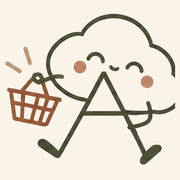
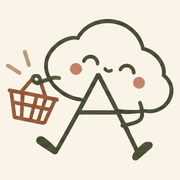
Fix mascot crop, zero-pad dates, add shop opening hours
- Re-cut the cloud mascot by connected strokes so its right side is intact
- Format dates as dd.MM. / dd.MM.yyyy
- Week view shows only open days (Mon–Fri default until settings are wired)
- Spec: open days and closing time in settings, week ends after last open day
- Spec: alerts for missing sales, unconfirmed payout and missing Zásilkovna
- Additive migration adding settings.open_days and settings.closing_time

Changed region(s): [[0.0278, 0.0556, 0.9722, 0.9167], [0.1111, 0.25, 0.1944, 0.3889], [0.0278, 0.3333, 0.1389, 0.4167]]

diff --git a/src/utils/weekUtils.ts b/src/utils/weekUtils.ts
@@ -3,6 +3,7 @@ import {
   addMonths,
   addWeeks,
   format,
+  getISODay,
   getISOWeek,
   getISOWeekYear,
   isValid,
@@ -50,16 +51,25 @@ export const getWeekDays = (monday: Date) => Array.from({ length: 7 }, (_, i) =>
 
 export const getWeekMonthId = (monday: Date) => toMonthId(addDays(monday, 3))
 
-/** e.g. `10.–16. 11. 2026` or `27. 10. – 2. 11. 2026` */
-export const formatWeekRange = (monday: Date) => {
-  const sunday = addDays(monday, 6)
-  if (monday.getMonth() === sunday.getMonth()) {
-    return `${format(monday, 'd.')}–${format(sunday, 'd. M. yyyy')}`
+/** ISO weekdays (1 = Monday … 7 = Sunday) the shop is open. Mirrors the DB default of settings.open_days. */
+export const DEFAULT_OPEN_DAYS = [1, 2, 3, 4, 5]
+
+/** Days of the week the shop is open, in order. */
+export const getOpenWeekDays = (monday: Date, openDays: number[] = DEFAULT_OPEN_DAYS) =>
+  getWeekDays(monday).filter(day => openDays.includes(getISODay(day)))
+
+/**
+ * Range of the open days of the week, e.g. `02.11.–06.11.2026` or `28.12.2026 – 01.01.2027`.
+ * Falls back to Monday–Sunday when no day is open.
+ */
+export const formatWeekRange = (monday: Date, openDays: number[] = DEFAULT_OPEN_DAYS) => {
+  const days = getOpenWeekDays(monday, openDays)
+  const first = days[0] ?? monday
+  const last = days[days.length - 1] ?? addDays(monday, 6)
+  if (first.getFullYear() === last.getFullYear()) {
+    return `${format(first, 'dd.MM.')}–${format(last, 'dd.MM.yyyy')}`
   }
-  if (monday.getFullYear() === sunday.getFullYear()) {
-    return `${format(monday, 'd. M.')} – ${format(sunday, 'd. M. yyyy')}`
-  }
-  return `${format(monday, 'd. M. yyyy')} – ${format(sunday, 'd. M. yyyy')}`
+  return `${format(first, 'dd.MM.yyyy')} – ${format(last, 'dd.MM.yyyy')}`
 }
 
 // Month
@@ -98,5 +108,5 @@ export const getMonthWeekStarts = (firstDay: Date) => {
   return mondays
 }
 
-/** e.g. `po 10. 11.` */
-export const formatDayShort = (date: Date) => format(date, 'EEEEEE d. M.', { locale: cs })
+/** e.g. `po 02.11.` */
+export const formatDayShort = (date: Date) => format(date, 'EEEEEE dd.MM.', { locale: cs })

diff --git a/src/pages/Week/WeekDetail/comps/WeekDays/WeekDays.tsx b/src/pages/Week/WeekDetail/comps/WeekDays/WeekDays.tsx
@@ -1,16 +1,18 @@
 import { cn } from '@/lib/utils'
-import { formatDayShort, getWeekDays } from '@/utils/weekUtils'
+import { DEFAULT_OPEN_DAYS, formatDayShort, getOpenWeekDays } from '@/utils/weekUtils'
 import { isToday } from 'date-fns'
 
 type Props = {
   monday: Date
+  /** ISO weekdays the shop is open; will come from settings.open_days. */
+  openDays?: number[]
 }
 
-const WeekDays = ({ monday }: Props) => (
+const WeekDays = ({ monday, openDays = DEFAULT_OPEN_DAYS }: Props) => (
   <section className='rounded-2xl border border-border bg-card p-5 shadow-sm shadow-olive/5'>
-    <h2 className='mb-3 font-chalk text-2xl leading-none text-olive'>Dny v týdnu</h2>
+    <h2 className='mb-3 font-chalk text-2xl leading-none text-olive'>Otevřeno tento týden</h2>
     <ul className='divide-y divide-border/70'>
-      {getWeekDays(monday).map(day => (
+      {getOpenWeekDays(monday, openDays).map(day => (
         <li
           className={cn(
             'flex items-center justify-between gap-3 py-2.5 text-sm',

diff --git a/docs/DESIGN.md b/docs/DESIGN.md
@@ -88,6 +88,7 @@ a štruktúra kódu.
 - **Písma**: _Caveat Brush_ (krieda / ručne písané) na nadpisy a tabule, _Nunito_ (zaoblené,
   čitateľné) na všetko ostatné a na čísla.
 - **Shadcn** komponenty ostávajú skoro defaultné, vzhľad dávajú tokeny, zaoblenie a farby.
+- **Dátumy** vždy s nulami: `06.11.`, s rokom `06.11.2026` (`dd.MM.` / `dd.MM.yyyy`).
 - **Tón textov**: tykanie, krátko, ľudsky („Zatím v klidu“, „Mrkneme, jak se obchodu daří?“).
 - **Layout**: hlavička s logom a „pilulkovou“ navigáciou na desktope (bez sidebaru), plávajúca
   spodná lišta na mobile.
@@ -96,16 +97,19 @@ a štruktúra kódu.
 
 ## Pojmy
 
-| Pojem (UI, cs)      | Význam                                                                                                                                                                                                                               |
-| ------------------- | ------------------------------------------------------------------------------------------------------------------------------------------------------------------------------------------------------------------------------------ |
-| **Týden**           | Pondelok–Nedeľa (ISO, `2026-W46`). Mesiacu patrí podľa štvrtka.                                                                                                                                                                      |
-| **Tržba**           | Peniaze z predaja za deň (`0` = zavřeno).                                                                                                                                                                                            |
-| **Výdaj**           | Čokoľvek zaplatené z peňazí obchodu (tovar, drobnosti…). Fixné náklady sa sem nezadávajú.                                                                                                                                            |
-| **Přebytek týdne**  | `tržby − výdaje` za týždeň. Záporný = ztráta.                                                                                                                                                                                        |
-| **Zásilkovna**      | Mesačná faktúra za výdajné miesto. Príjem mimo pokladne za **mesiac**, ide do obálky na fixní. Technicky „jiný příjem“ (`other_incomes.kind = 'zasilkovna'`), aby sa dali neskôr pridať ďalšie druhy; v UI je zatiaľ iba Zásilkovna. |
-| **Fixní náklady**   | Mesačné náklady, suma platná od mesiaca X, deň splatnosti. Každý mesiac sa odškrtávajú ako _zaplacené_.                                                                                                                              |
-| **Uzávěrka týdne**  | Rozdelenie _k dispozici_: výplata, do obálky na fixní, na nákupy, vzala jsem si                                                                                                                                                      |
-| **Výsledek měsíce** | `přebytky + Zásilkovna − výplaty − vzala si − fixní náklady měsíce`. Zarobil obchod, alebo prerobil?                                                                                                                                 |
+| Pojem (UI, cs)            | Význam                                                                                                                                                                                                                               |
+| ------------------------- | ------------------------------------------------------------------------------------------------------------------------------------------------------------------------------------------------------------------------------------ |
+| **Týden**                 | Dáta: Pondelok–Nedeľa (ISO, `2026-W46`), mesiacu patrí podľa štvrtka. UI ukazuje iba **otváracie dni**; víkendový nákup sa normálne započíta do týždňa.                                                                              |
+| **Otváracie dni**         | Dni v týždni, keď je obchod otvorený (Nastavenia, teraz Po–Pá). Iba pre ne sa čaká tržba.                                                                                                                                            |
+| **Koniec pracovnej doby** | Jeden čas pre všetky dni (napr. 18:00). Až potom appka čaká dnešnú tržbu.                                                                                                                                                            |
+| **Koniec týždňa**         | Koniec pracovnej doby v poslednom otváracom dni týždňa (teraz piatok).                                                                                                                                                               |
+| **Tržba**                 | Peniaze z predaja za deň (`0` = zavřeno).                                                                                                                                                                                            |
+| **Výdaj**                 | Čokoľvek zaplatené z peňazí obchodu (tovar, drobnosti…). Fixné náklady sa sem nezadávajú.                                                                                                                                            |
+| **Přebytek týdne**        | `tržby − výdaje` za týždeň. Záporný = ztráta.                                                                                                                                                                                        |
+| **Zásilkovna**            | Mesačná faktúra za výdajné miesto. Príjem mimo pokladne za **mesiac**, ide do obálky na fixní. Technicky „jiný příjem“ (`other_incomes.kind = 'zasilkovna'`), aby sa dali neskôr pridať ďalšie druhy; v UI je zatiaľ iba Zásilkovna. |
+| **Fixní náklady**         | Mesačné náklady, suma platná od mesiaca X, deň splatnosti. Každý mesiac sa odškrtávajú ako _zaplacené_.                                                                                                                              |
+| **Uzávěrka týdne**        | Rozdelenie _k dispozici_: výplata, do obálky na fixní, na nákupy, vzala jsem si                                                                                                                                                      |
+| **Výsledek měsíce**       | `přebytky + Zásilkovna − výplaty − vzala si − fixní náklady měsíce`. Zarobil obchod, alebo prerobil?                                                                                                                                 |
 
 ---
 
@@ -156,14 +160,15 @@ doporučeno vyplatit  = max(0, k dispozici − doporučeno do obálky − N)
 - Keď `k dispozici − do obálky < N`: výplata 0 a _„Na nákupy zůstane jen 1 800 Kč místo 3 000 Kč“_.
 - Je jedno, kedy v mesiaci nájom zaplatí: zaplatenie zníži _odloženo_ aj _nezaplacené_ o rovnakú
   sumu, takže _chybí_ sa nezmení. Prebytok obálky z minulých mesiacov _chybí_ znižuje, mínus zvyšuje.
-- Výrazná od soboty a pre každý minulý neuzavretý týždeň. Uzávierka sa ňou predvyplní.
+- Výrazná od posledného otváracieho dňa týždňa (teraz piatok) a pre každý minulý neuzavretý týždeň.
+  Uzávierka sa ňou predvyplní.
 
 #### Overenie (nájom 12 000 splatný 5., 4 týždne, přebytek 8 000/týždeň, N = 2 000, štart od 0)
 
 | Týž. | Na nákupy z min. | K dispozici | Odloženo pred  | Chybí  | Do obálky | Výplata   | Na nákupy | Odloženo po |
 | ---- | ---------------- | ----------- | -------------- | ------ | --------- | --------- | --------- | ----------- |
 | 1    | 0                | 8 000       | 0              | 12 000 | 3 000     | **3 000** | 2 000     | 3 000       |
-|      |                  |             | _5. 11. nájom_ |        |           |           |           | −9 000      |
+|      |                  |             | _05.11. nájom_ |        |           |           |           | −9 000      |
 | 2    | 2 000            | 10 000      | −9 000         | 9 000  | 3 000     | **5 000** | 2 000     | −6 000      |
 | 3    | 2 000            | 10 000      | −6 000         | 6 000  | 3 000     | **5 000** | 2 000     | −3 000      |
 | 4    | 2 000            | 10 000      | −3 000         | 3 000  | 3 000     | **5 000** | 2 000     | **0**       |
@@ -178,14 +183,14 @@ nájom pokrytý a na nákupy ostáva 2 000.
 Každý záznam má **dátum, kedy sa to stalo**, nie kedy ho zapísala. Modály majú predvolene _dnes_.
 Zásilkovna má namiesto dátumu **mesiac**.
 
-| Situácia                                                   | Ako appka reaguje                                                                                                                                                                                                                                                                                                       |
-| ---------------------------------------------------------- | ----------------------------------------------------------------------------------------------------------------------------------------------------------------------------------------------------------------------------------------------------------------------------------------------------------------------- |
-| **Budúcnosť / pred počátečním stavem**                     | Nedovolené.                                                                                                                                                                                                                                                                                                             |
-| **Do otvoreného minulého týždňa**                          | Bez otázok. Toast: „Uloženo do týdne 45 (3.–9. 11.)“.                                                                                                                                                                                                                                                                   |
-| **Do uzavretého týždňa**                                   | Povolené. Výplata ani obálka na fixní sa nemenia; rozdiel ide z/do _na nákupy_ toho týždňa (a teda do ďalších týždňov). Týždeň ukáže _„Po uzávěrce: výdaje +3 000 Kč (čerpáno z rezervy na nákupy)“_. Typicky víkendový nákup po sobotnej uzávierke, čo je v poriadku. Upozornenie iba ak tým _na nákupy_ klesne pod 0. |
-| **Zásilkovna za minulý mesiac** (za říjen, zadaná 15. 11.) | „Za měsíc: říjen“ (rýchla voľba _minulý měsíc_). Obálka na fixní narastie hneď, aktuálne odporúčanie sa zvýši.                                                                                                                                                                                                          |
-| **Fixný náklad zaplatený za minulý mesiac**                | Checklist ide prepnúť na ľubovoľný mesiac.                                                                                                                                                                                                                                                                              |
-| **Zmena / zmazanie záznamu**                               | Rovnaké pravidlá; zmazanie v uzavretom týždni s potvrdením.                                                                                                                                                                                                                                                             |
+| Situácia                                                  | Ako appka reaguje                                                                                                                                                                                                                                                                                                        |
+| --------------------------------------------------------- | ------------------------------------------------------------------------------------------------------------------------------------------------------------------------------------------------------------------------------------------------------------------------------------------------------------------------ |
+| **Budúcnosť / pred počátečním stavem**                    | Nedovolené.                                                                                                                                                                                                                                                                                                              |
+| **Do otvoreného minulého týždňa**                         | Bez otázok. Toast: „Uloženo do týdne 45 (02.11.–06.11.)“.                                                                                                                                                                                                                                                                |
+| **Do uzavretého týždňa**                                  | Povolené. Výplata ani obálka na fixní sa nemenia; rozdiel ide z/do _na nákupy_ toho týždňa (a teda do ďalších týždňov). Týždeň ukáže _„Po uzávěrce: výdaje +3 000 Kč (čerpáno z rezervy na nákupy)“_. Typicky víkendový nákup po piatkovej uzávierke, čo je v poriadku. Upozornenie iba ak tým _na nákupy_ klesne pod 0. |
+| **Zásilkovna za minulý mesiac** (za říjen, zadaná 15.11.) | „Za měsíc: říjen“ (rýchla voľba _minulý měsíc_). Obálka na fixní narastie hneď, aktuálne odporúčanie sa zvýši.                                                                                                                                                                                                           |
+| **Fixný náklad zaplatený za minulý mesiac**               | Checklist ide prepnúť na ľubovoľný mesiac.                                                                                                                                                                                                                                                                               |
+| **Zmena / zmazanie záznamu**                              | Rovnaké pravidlá; zmazanie v uzavretom týždni s potvrdením.                                                                                                                                                                                                                                                              |
 
 Keď spätný záznam zmení obálky, zmení sa aj aktuálne odporúčanie. „Jak se to počítá“ ukáže prečo.
 
@@ -193,15 +198,27 @@ Keď spätný záznam zmení obálky, zmení sa aj aktuálne odporúčanie. „J
 
 ## Upozornenia
 
-`getAlerts()` v `src/utils/alertsUtils.ts`; úroveň `info` / `warning` / `danger`, odkaz na riešenie.
+`getAlerts()` v `src/utils/alertsUtils.ts`. Každé má odkaz, kde to vyriešiť. Úrovne bez červenej:
+`info` (šalviová), `todo` (medová), `important` (terakota). Nič pred `opening_date` (02.11.2026)
+appku nezaujíma.
 
-| Upozornenie                                                                               | Kedy                                                        | Úroveň                      |
-| ----------------------------------------------------------------------------------------- | ----------------------------------------------------------- | --------------------------- |
-| **Neuzavřený týden** „Týden 45 není uzavřený“                                             | minulý týždeň bez uzávierky                                 | warning                     |
-| **Nezaplaceno** „Nájem 12 000 Kč, splatnost 5. 11.“                                       | fixný náklad mesiaca neodškrtnutý                           | info → danger po splatnosti |
-| **Fixní náklady se nepokryjí** „Do konce listopadu chybí 2 000 Kč“                        | v poslednom týždni mesiaca `chybí > k dispozici`            | danger                      |
-| **Rezerva na nákupy v mínusu** „Týden 44: výdaje po uzávěrce překročily rezervu o 500 Kč“ | _na nákupy_ uzavretého týždňa < 0                           | warning                     |
-| **Chybí tržba** „Chybí tržba za: Po, St“                                                  | minulý deň týždňa bez tržby (odporúčanie je potom nepresné) | info                        |
+| Upozornenie                                                                                | Kedy                                                                                                                      | Úroveň                         |
+| ------------------------------------------------------------------------------------------ | ------------------------------------------------------------------------------------------------------------------------- | ------------------------------ |
+| **Chybí tržba** „Chybí tržba za 03.11. a 05.11.“                                           | otvárací deň od `opening_date` bez záznamu tržby; **dnešok až po konci pracovnej doby**. Zatvorené výnimočne = tržba `0`. | todo                           |
+| **Výplata není potvrzená** „Týden 45 skončil, zapiš, kolik jsi dala prodavačce“            | týždeň skončil (koniec pracovnej doby posledného otváracieho dňa) a nemá uzávierku                                        | todo                           |
+| **Chybí Zásilkovna** „Za říjen ještě není zapsaná Zásilkovna“                              | mesiac skončil (a nie je pred mesiacom `opening_date`) a nemá záznam Zásilkovne                                           | info                           |
+| **Nezaplaceno** „Nájem 12 000 Kč, splatnost 05.11.“                                        | fixný náklad mesiaca neodškrtnutý                                                                                         | info → important po splatnosti |
+| **Fixní náklady se nepokryjí** „Do konce listopadu chybí ještě 2 000 Kč“                   | v poslednom týždni mesiaca `chybí > k dispozici`                                                                          | important                      |
+| **Rezerva na nákupy došla** „Týden 44: výdaje po uzávěrce byly o 500 Kč vyšší než rezerva“ | _na nákupy_ uzavretého týždňa < 0                                                                                         | info                           |
+
+Viac chýbajúcich vecí rovnakého druhu sa zlúči do jedného upozornenia (napr. všetky dni bez tržby).
+
+----------------------------------------------------------------------------------------- | ----------------------------------------------------------- | --------------------------- |
+| **Neuzavřený týden** „Týden 45 není uzavřený“ | minulý týždeň bez uzávierky | warning |
+| **Nezaplaceno** „Nájem 12 000 Kč, splatnost 5. 11.“ | fixný náklad mesiaca neodškrtnutý | info → danger po splatnosti |
+| **Fixní náklady se nepokryjí** „Do konce listopadu chybí 2 000 Kč“ | v poslednom týždni mesiaca `chybí > k dispozici` | danger |
+| **Rezerva na nákupy v mínusu** „Týden 44: výdaje po uzávěrce překročily rezervu o 500 Kč“ | _na nákupy_ uzavretého týždňa < 0 | warning |
+| **Chybí tržba** „Chybí tržba za: Po, St“ | minulý deň týždňa bez tržby (odporúčanie je potom nepresné) | info |
 
 ---
 
@@ -215,7 +232,7 @@ Mobil: **spodná lišta** _Týden · Měsíc · [+] · Přehled_, obsah v jednom
 
 ```
 ┌────────────────────────────────────────────────────────────────────────────┐
-│ ◀  Týden 46 · 10.–16. 11. 2026  ▶                          [+ Přidat ▾]    │
+│ ◀  Týden 46 · 09.11.–13.11.2026  ▶                         [+ Přidat ▾]    │
 ├──────────────────────────────────────────┬─────────────────────────────────┤
 │ PRODAVAČCE DOPORUČUJI VYPLATIT           │ PENÍZE OBCHODU       14 200 Kč  │
 │ 4 000 Kč                                 │  odloženo na fixní    9 000     │
@@ -228,8 +245,8 @@ Mobil: **spodná lišta** _Týden · Měsíc · [+] · Přehled_, obsah v jednom
 ├──────────┴──────────┴────────────────────│─────────────────────────────────│
 │ [graf: tržby a výdaje po dňoch Po–Ne]    │ UPOZORNĚNÍ                      │
 ├──────────────────────────────────────────│  • Chybí tržba za St            │
-│ Po 10. 11.  tržba 2 600 · výdaje 1 200 ▸ │                                 │
-│ Út 11. 11.  …                            │                                 │
+│ Po 09.11.   tržba 2 600 · výdaje 1 200 ▸ │                                 │
+│ Út 10.11.   …                            │                                 │
 └──────────────────────────────────────────┴─────────────────────────────────┘
 ```
 
@@ -253,7 +270,8 @@ alebo zjednodušený).
 ### Nastavení (`/settings`)
 
 Fixné náklady (názov, suma, splatnosť, „od měsíce X nová částka“, ukončiť = suma 0 od mesiaca X)
-· počáteční stav (dátum, odloženo na fixní, na nákupy).
+· **otevírací doba**: zaškrtávanie dní v týždni (Po–Ne, teraz Po–Pá) a jeden čas konca pracovnej
+doby · počáteční stav (dátum otvorenia, odloženo na fixní, na nákupy).
 
 ### Modály
 
@@ -293,7 +311,9 @@ week_closings       (week_start date pk  -- pondelok
 
 settings            (id int pk check (id = 1), opening_date date
                     , opening_fixed numeric(12,2) default 0
-                    , opening_purchases numeric(12,2) default 0)
+                    , opening_purchases numeric(12,2) default 0
+                    , open_days smallint[] default '{1,2,3,4,5}'  -- ISO dni, 1 = Po
+                    , closing_time time default '18:00')
 allowed_users       (email text pk)
 ```
 

diff --git a/AGENTS.md b/AGENTS.md
@@ -68,6 +68,8 @@ Target user: Sára (26). Friendly, a bit cute, calm. Full rules: `docs/DESIGN.md
 - Headings: `font-chalk` (Caveat Brush). Body and numbers: Nunito (`font-sans`, `tabular-nums`).
 - `Mascot` (cloud from the logo) for empty, loading and error states. Logo files in `public/brand/`.
 - Czech copy uses informal "ty" (tykání), short and human.
+- Dates always zero-padded: `06.11.`, with year `06.11.2026` (`dd.MM.` / `dd.MM.yyyy`) — use `weekUtils` formatters.
+- Show only the shop's open days (settings `open_days`) in day lists; weekend records still count to their week.
 - shadcn primitives stay close to default; style through tokens and `className`.
 
 ---

diff --git a/CLAUDE.md b/CLAUDE.md
@@ -68,6 +68,8 @@ Target user: Sára (26). Friendly, a bit cute, calm. Full rules: `docs/DESIGN.md
 - Headings: `font-chalk` (Caveat Brush). Body and numbers: Nunito (`font-sans`, `tabular-nums`).
 - `Mascot` (cloud from the logo) for empty, loading and error states. Logo files in `public/brand/`.
 - Czech copy uses informal "ty" (tykání), short and human.
+- Dates always zero-padded: `06.11.`, with year `06.11.2026` (`dd.MM.` / `dd.MM.yyyy`) — use `weekUtils` formatters.
+- Show only the shop's open days (settings `open_days`) in day lists; weekend records still count to their week.
 - shadcn primitives stay close to default; style through tokens and `className`.
 
 ---
